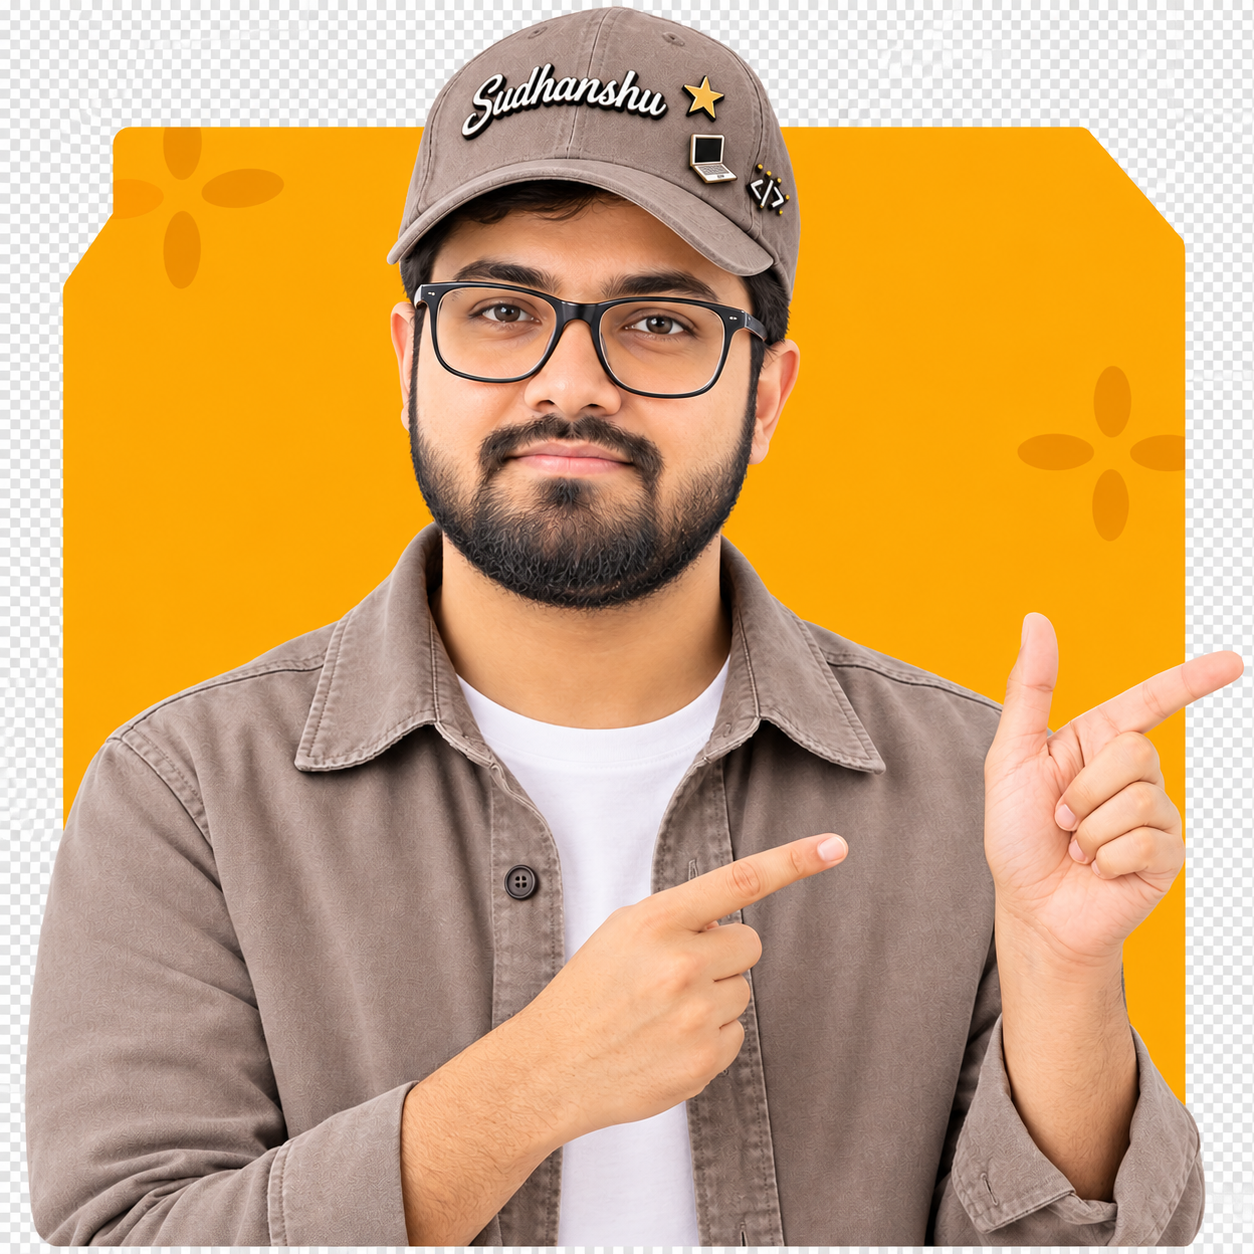
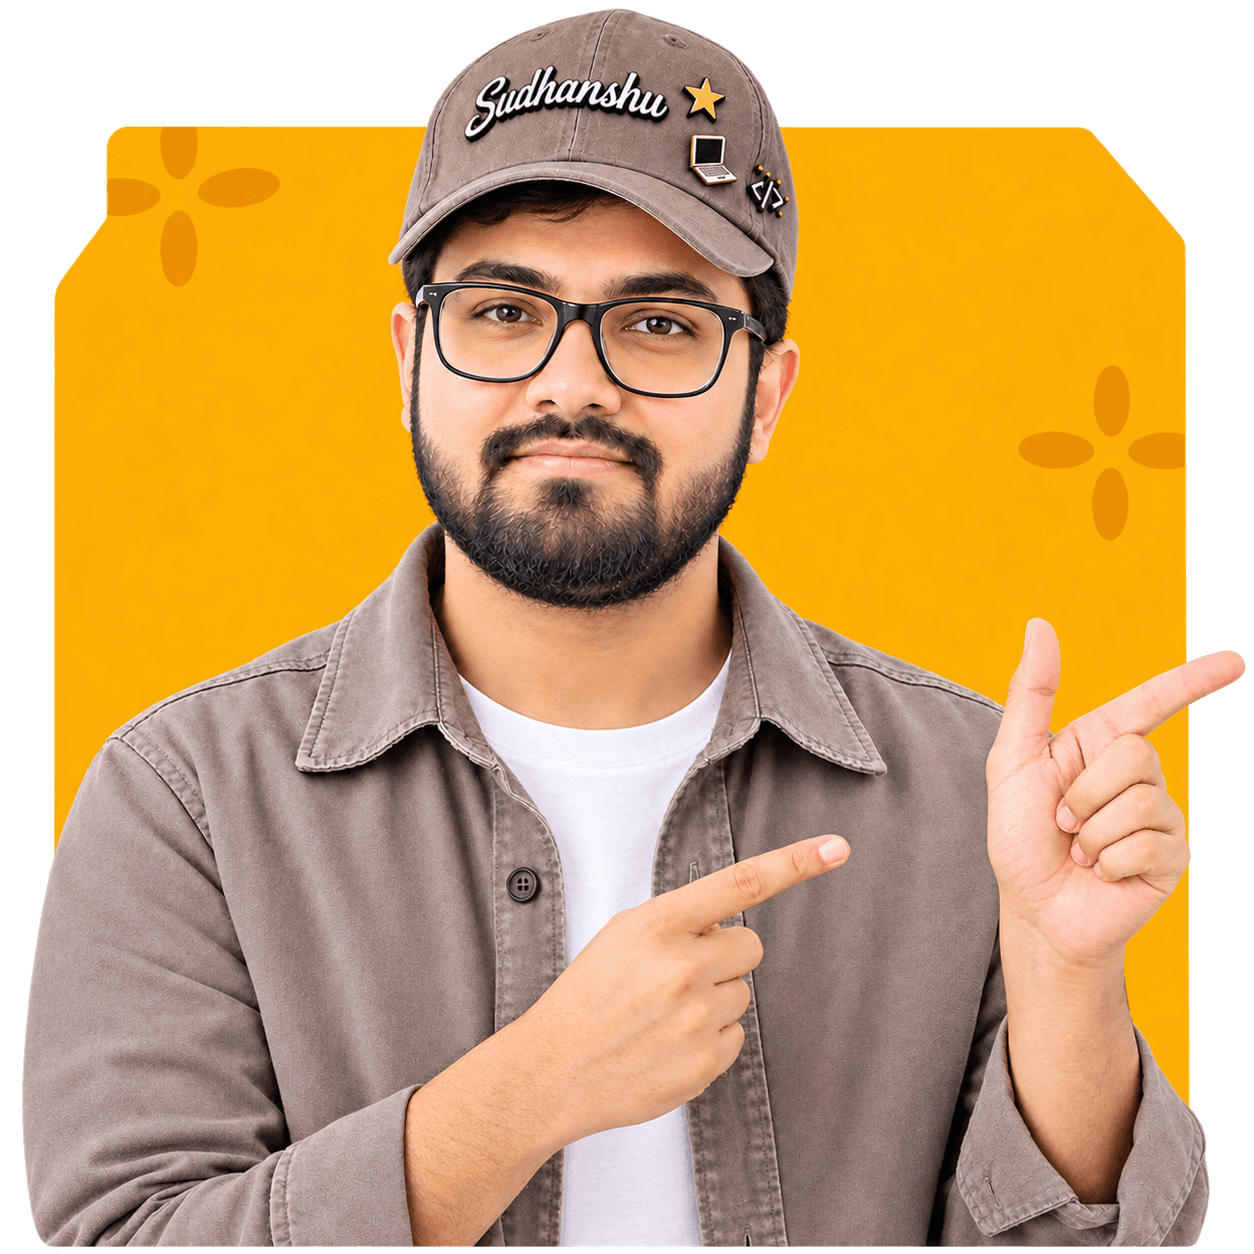
fixing few bugs related to css

diff --git a/src/components/sections/SkillsProficiency/SkillIcon.jsx b/src/components/sections/SkillsProficiency/SkillIcon.jsx
@@ -21,7 +21,7 @@ const SkillIcon = ({ name, size = 26, className = "" }) => {
         >
           <title>React Logo</title>
           <circle cx="0" cy="0" r="2.05" fill="#61dafb" />
-          <g stroke="#61dafb" stroke-width="1" fill="none">
+          <g stroke="#61dafb" strokeWidth="1" fill="none">
             <ellipse rx="11" ry="4.2" />
             <ellipse rx="11" ry="4.2" transform="rotate(60)" />
             <ellipse rx="11" ry="4.2" transform="rotate(120)" />
@@ -69,10 +69,10 @@ const SkillIcon = ({ name, size = 26, className = "" }) => {
               y2="44.7"
               gradientUnits="userSpaceOnUse"
             >
-              <stop stop-color="#3F8B3D" />
-              <stop offset="0.64" stop-color="#3F873F" />
-              <stop offset="0.93" stop-color="#3DA92E" />
-              <stop offset="1" stop-color="#3DAE2B" />
+              <stop stopColor="#3F8B3D" />
+              <stop offset="0.64" stopColor="#3F873F" />
+              <stop offset="0.93" stopColor="#3DA92E" />
+              <stop offset="1" stopColor="#3DAE2B" />
             </linearGradient>
             <linearGradient
               id="r1"
@@ -82,10 +82,10 @@ const SkillIcon = ({ name, size = 26, className = "" }) => {
               y2="0.4"
               gradientUnits="userSpaceOnUse"
             >
-              <stop offset="0.14" stop-color="#3F873F" />
-              <stop offset="0.4" stop-color="#52A044" />
-              <stop offset="0.71" stop-color="#64B749" />
-              <stop offset="0.91" stop-color="#6ABF4B" />
+              <stop offset="0.14" stopColor="#3F873F" />
+              <stop offset="0.4" stopColor="#52A044" />
+              <stop offset="0.71" stopColor="#64B749" />
+              <stop offset="0.91" stopColor="#6ABF4B" />
             </linearGradient>
             <linearGradient
               id="r2"
@@ -95,10 +95,10 @@ const SkillIcon = ({ name, size = 26, className = "" }) => {
               y2="24.5"
               gradientUnits="userSpaceOnUse"
             >
-              <stop offset="0.09" stop-color="#6ABF4B" />
-              <stop offset="0.29" stop-color="#64B749" />
-              <stop offset="0.6" stop-color="#52A044" />
-              <stop offset="0.86" stop-color="#3F873F" />
+              <stop offset="0.09" stopColor="#6ABF4B" />
+              <stop offset="0.29" stopColor="#64B749" />
+              <stop offset="0.6" stopColor="#52A044" />
+              <stop offset="0.86" stopColor="#3F873F" />
             </linearGradient>
           </defs>
           <path
@@ -107,12 +107,12 @@ const SkillIcon = ({ name, size = 26, className = "" }) => {
           />
           <polygon
             fill="url(#r1)"
-            clip-path="url(#hexClip)"
+            clipPath="url(#hexClip)"
             points="21.698901,-1.046618 43.20532,11.948247 21.698901,51.072715 0.152778,38.055107"
           />
           <polygon
             fill="url(#r2)"
-            clip-path="url(#hexClip)"
+            clipPath="url(#hexClip)"
             points="21.698901,-1.046618 0.152778,11.948247 21.698901,51.072715 43.20532,38.055107"
           />
         </svg>
@@ -146,98 +146,98 @@ const SkillIcon = ({ name, size = 26, className = "" }) => {
           aria-hidden="true"
         >
           <path
-            fill-rule="evenodd"
-            clip-rule="evenodd"
+            fillRule="evenodd"
+            clipRule="evenodd"
             fill="#439934"
             d="M88.038 42.812c1.605 4.643 2.761 9.383 3.141 14.296.472 6.095.256 12.147-1.029 18.142-.035.165-.109.32-.164.48-.403.001-.814-.049-1.208.012-3.329.523-6.655 1.065-9.981 1.604-3.438.557-6.881 1.092-10.313 1.687-1.216.21-2.721-.041-3.212 1.641-.014.046-.154.054-.235.08l.166-10.051-.169-24.252 1.602-.275c2.62-.429 5.24-.864 7.862-1.281 3.129-.497 6.261-.98 9.392-1.465 1.381-.215 2.764-.412 4.148-.618z"
           />
           <path
-            fill-rule="evenodd"
-            clip-rule="evenodd"
+            fillRule="evenodd"
+            clipRule="evenodd"
             fill="#45A538"
             d="M61.729 110.054c-1.69-1.453-3.439-2.842-5.059-4.37-8.717-8.222-15.093-17.899-18.233-29.566-.865-3.211-1.442-6.474-1.627-9.792-.13-2.322-.318-4.665-.154-6.975.437-6.144 1.325-12.229 3.127-18.147l.099-.138c.175.233.427.439.516.702 1.759 5.18 3.505 10.364 5.242 15.551 5.458 16.3 10.909 32.604 16.376 48.9.107.318.384.579.583.866l-.87 2.969z"
           />
           <path
-            fill-rule="evenodd"
-            clip-rule="evenodd"
+            fillRule="evenodd"
+            clipRule="evenodd"
             fill="#46A037"
             d="M88.038 42.812c-1.384.206-2.768.403-4.149.616-3.131.485-6.263.968-9.392 1.465-2.622.417-5.242.852-7.862 1.281l-1.602.275-.012-1.045c-.053-.859-.144-1.717-.154-2.576-.069-5.478-.112-10.956-.18-16.434-.042-3.429-.105-6.857-.175-10.285-.043-2.13-.089-4.261-.185-6.388-.052-1.143-.236-2.28-.311-3.423-.042-.657.016-1.319.029-1.979.817 1.583 1.616 3.178 2.456 4.749 1.327 2.484 3.441 4.314 5.344 6.311 7.523 7.892 12.864 17.068 16.193 27.433z"
           />
           <path
-            fill-rule="evenodd"
-            clip-rule="evenodd"
+            fillRule="evenodd"
+            clipRule="evenodd"
             fill="#409433"
             d="M65.036 80.753c.081-.026.222-.034.235-.08.491-1.682 1.996-1.431 3.212-1.641 3.432-.594 6.875-1.13 10.313-1.687 3.326-.539 6.652-1.081 9.981-1.604.394-.062.805-.011 1.208-.012-.622 2.22-1.112 4.488-1.901 6.647-.896 2.449-1.98 4.839-3.131 7.182a49.142 49.142 0 01-6.353 9.763c-1.919 2.308-4.058 4.441-6.202 6.548-1.185 1.165-2.582 2.114-3.882 3.161l-.337-.23-1.214-1.038-1.256-2.753a41.402 41.402 0 01-1.394-9.838l.023-.561.171-2.426c.057-.828.133-1.655.168-2.485.129-2.982.241-5.964.359-8.946z"
           />
           <path
-            fill-rule="evenodd"
-            clip-rule="evenodd"
+            fillRule="evenodd"
+            clipRule="evenodd"
             fill="#4FAA41"
             d="M65.036 80.753c-.118 2.982-.23 5.964-.357 8.947-.035.83-.111 1.657-.168 2.485l-.765.289c-1.699-5.002-3.399-9.951-5.062-14.913-2.75-8.209-5.467-16.431-8.213-24.642a4498.887 4498.887 0 00-6.7-19.867c-.105-.31-.407-.552-.617-.826l4.896-9.002c.168.292.39.565.496.879a6167.476 6167.476 0 016.768 20.118c2.916 8.73 5.814 17.467 8.728 26.198.116.349.308.671.491 1.062l.67-.78-.167 10.052z"
           />
           <path
-            fill-rule="evenodd"
-            clip-rule="evenodd"
+            fillRule="evenodd"
+            clipRule="evenodd"
             fill="#4AA73C"
             d="M43.155 32.227c.21.274.511.516.617.826a4498.887 4498.887 0 016.7 19.867c2.746 8.211 5.463 16.433 8.213 24.642 1.662 4.961 3.362 9.911 5.062 14.913l.765-.289-.171 2.426-.155.559c-.266 2.656-.49 5.318-.814 7.968-.163 1.328-.509 2.632-.772 3.947-.198-.287-.476-.548-.583-.866-5.467-16.297-10.918-32.6-16.376-48.9a3888.972 3888.972 0 00-5.242-15.551c-.089-.263-.34-.469-.516-.702l3.272-8.84z"
           />
           <path
-            fill-rule="evenodd"
-            clip-rule="evenodd"
+            fillRule="evenodd"
+            clipRule="evenodd"
             fill="#57AE47"
             d="M65.202 70.702l-.67.78c-.183-.391-.375-.714-.491-1.062-2.913-8.731-5.812-17.468-8.728-26.198a6167.476 6167.476 0 00-6.768-20.118c-.105-.314-.327-.588-.496-.879l6.055-7.965c.191.255.463.482.562.769 1.681 4.921 3.347 9.848 5.003 14.778 1.547 4.604 3.071 9.215 4.636 13.813.105.308.47.526.714.786l.012 1.045c.058 8.082.115 16.167.171 24.251z"
           />
           <path
-            fill-rule="evenodd"
-            clip-rule="evenodd"
+            fillRule="evenodd"
+            clipRule="evenodd"
             fill="#60B24F"
             d="M65.021 45.404c-.244-.26-.609-.478-.714-.786-1.565-4.598-3.089-9.209-4.636-13.813-1.656-4.93-3.322-9.856-5.003-14.778-.099-.287-.371-.514-.562-.769 1.969-1.928 3.877-3.925 5.925-5.764 1.821-1.634 3.285-3.386 3.352-5.968.003-.107.059-.214.145-.514l.519 1.306c-.013.661-.072 1.322-.029 1.979.075 1.143.259 2.28.311 3.423.096 2.127.142 4.258.185 6.388.069 3.428.132 6.856.175 10.285.067 5.478.111 10.956.18 16.434.008.861.098 1.718.152 2.577z"
           />
           <path
-            fill-rule="evenodd"
-            clip-rule="evenodd"
+            fillRule="evenodd"
+            clipRule="evenodd"
             fill="#A9AA88"
             d="M62.598 107.085c.263-1.315.609-2.62.772-3.947.325-2.649.548-5.312.814-7.968l.066-.01.066.011a41.402 41.402 0 001.394 9.838c-.176.232-.425.439-.518.701-.727 2.05-1.412 4.116-2.143 6.166-.1.28-.378.498-.574.744l-.747-2.566.87-2.969z"
           />
           <path
-            fill-rule="evenodd"
-            clip-rule="evenodd"
+            fillRule="evenodd"
+            clipRule="evenodd"
             fill="#B6B598"
             d="M62.476 112.621c.196-.246.475-.464.574-.744.731-2.05 1.417-4.115 2.143-6.166.093-.262.341-.469.518-.701l1.255 2.754c-.248.352-.59.669-.728 1.061l-2.404 7.059c-.099.283-.437.483-.663.722l-.695-3.985z"
           />
           <path
-            fill-rule="evenodd"
-            clip-rule="evenodd"
+            fillRule="evenodd"
+            clipRule="evenodd"
             fill="#C2C1A7"
             d="M63.171 116.605c.227-.238.564-.439.663-.722l2.404-7.059c.137-.391.48-.709.728-1.061l1.215 1.037c-.587.58-.913 1.25-.717 2.097l-.369 1.208c-.168.207-.411.387-.494.624-.839 2.403-1.64 4.819-2.485 7.222-.107.305-.404.544-.614.812-.109-1.387-.22-2.771-.331-4.158z"
           />
           <path
-            fill-rule="evenodd"
-            clip-rule="evenodd"
+            fillRule="evenodd"
+            clipRule="evenodd"
             fill="#CECDB7"
             d="M63.503 120.763c.209-.269.506-.508.614-.812.845-2.402 1.646-4.818 2.485-7.222.083-.236.325-.417.494-.624l-.509 5.545c-.136.157-.333.294-.398.477-.575 1.614-1.117 3.24-1.694 4.854-.119.333-.347.627-.525.938-.158-.207-.441-.407-.454-.623-.051-.841-.016-1.688-.013-2.533z"
           />
           <path
-            fill-rule="evenodd"
-            clip-rule="evenodd"
+            fillRule="evenodd"
+            clipRule="evenodd"
             fill="#DBDAC7"
             d="M63.969 123.919c.178-.312.406-.606.525-.938.578-1.613 1.119-3.239 1.694-4.854.065-.183.263-.319.398-.477l.012 3.64-1.218 3.124-1.411-.495z"
           />
           <path
-            fill-rule="evenodd"
-            clip-rule="evenodd"
+            fillRule="evenodd"
+            clipRule="evenodd"
             fill="#EBE9DC"
             d="M65.38 124.415l1.218-3.124.251 3.696-1.469-.572z"
           />
           <path
-            fill-rule="evenodd"
-            clip-rule="evenodd"
+            fillRule="evenodd"
+            clipRule="evenodd"
             fill="#CECDB7"
             d="M67.464 110.898c-.196-.847.129-1.518.717-2.097l.337.23-1.054 1.867z"
           />
           <path
-            fill-rule="evenodd"
-            clip-rule="evenodd"
+            fillRule="evenodd"
+            clipRule="evenodd"
             fill="#4FAA41"
             d="M64.316 95.172l-.066-.011-.066.01.155-.559-.023.56z"
           />

diff --git a/src/components/sections/SkillsProficiency/SkillsProficiency.module.scss b/src/components/sections/SkillsProficiency/SkillsProficiency.module.scss
@@ -111,35 +111,25 @@
 
 // Shape clipping polygon (double chamfer top-left, stepped right edge, rounded corners)
 $card-clip: polygon(
-  /* Top-left double chamfer start */
-  42px 0%,
-  /* Top edge to top-right corner */
-  calc(100% - 26px) 0%,
+  /* Top-left double chamfer start */ 42px 0%,
+  /* Top edge to top-right corner */ calc(100% - 26px) 0%,
   calc(100% - 18px) 4px,
   calc(100% - 14px) 11px,
   calc(100% - 12px) 20px,
-  /* Indented upper-right vertical edge */
-  calc(100% - 12px) 46%,
-  /* 45° transition step to outer right */
-  100% 52%,
-  /* Lower-right vertical edge to bottom-right corner */
-  100% calc(100% - 20px),
+  /* Indented upper-right vertical edge */ calc(100% - 12px) 46%,
+  /* 45° transition step to outer right */ 100% 52%,
+  /* Lower-right vertical edge to bottom-right corner */ 100% calc(100% - 20px),
   calc(100% - 3px) calc(100% - 10px),
   calc(100% - 10px) calc(100% - 3px),
   calc(100% - 20px) 100%,
-  /* Bottom edge to bottom-left corner */
-  20px 100%,
+  /* Bottom edge to bottom-left corner */ 20px 100%,
   10px calc(100% - 3px),
   3px calc(100% - 10px),
   0% calc(100% - 20px),
-  /* Main left vertical edge up to lower chamfer */
-  0% 120px,
-  /* Lower 45° chamfer */
-  16px 104px,
-  /* Intermediate vertical step */
-  16px 36px,
-  /* Upper 45° chamfer back to top edge */
-  38px 0%
+  /* Main left vertical edge up to lower chamfer */ 0% 120px,
+  /* Lower 45° chamfer */ 16px 104px,
+  /* Intermediate vertical step */ 16px 36px,
+  /* Upper 45° chamfer back to top edge */ 38px 0%
 );
 
 // ----------------------------------------------------
@@ -147,7 +137,7 @@ $card-clip: polygon(
 // ----------------------------------------------------
 .cardWrapper {
   position: relative;
-  height: 250px;
+  height: 228px;
   cursor: pointer;
   outline: none;
   filter: drop-shadow(0 4px 16px rgba(0, 0, 0, 0.035));
@@ -159,8 +149,7 @@ $card-clip: polygon(
   &.active,
   &:focus-visible {
     transform: translateY(-4px);
-    filter:
-      drop-shadow(0 16px 32px rgba(0, 0, 0, 0.065))
+    filter: drop-shadow(0 16px 32px rgba(0, 0, 0, 0.065))
       drop-shadow(0 0 16px rgba(254, 159, 10, 0.14));
 
     .card {

diff --git a/src/components/sections/AboutMeSection/AboutMeSection.jsx b/src/components/sections/AboutMeSection/AboutMeSection.jsx
@@ -104,7 +104,7 @@ const AboutMeSection = () => {
           <div className={styles.imageCol}>
             <div className={styles.imageWrapper}>
               <Image
-                src="/assets/aboutMe2.png"
+                src="/assets/aboutMe3.png"
                 alt="Sudhanshu - Full Stack & AI Developer"
                 width={620}
                 height={620}

diff --git a/src/components/sections/Hero/Hero.jsx b/src/components/sections/Hero/Hero.jsx
@@ -235,7 +235,7 @@ export default function Hero() {
 
                 {/* LinkedIn */}
                 <a
-                  href="https://linkedin.com/in/sudhanshu-ghosh"
+                  href="https://linkedin.com/in/sudhanshu9199"
                   target="_blank"
                   rel="noopener noreferrer"
                   className={styles.socialIconBtn}
